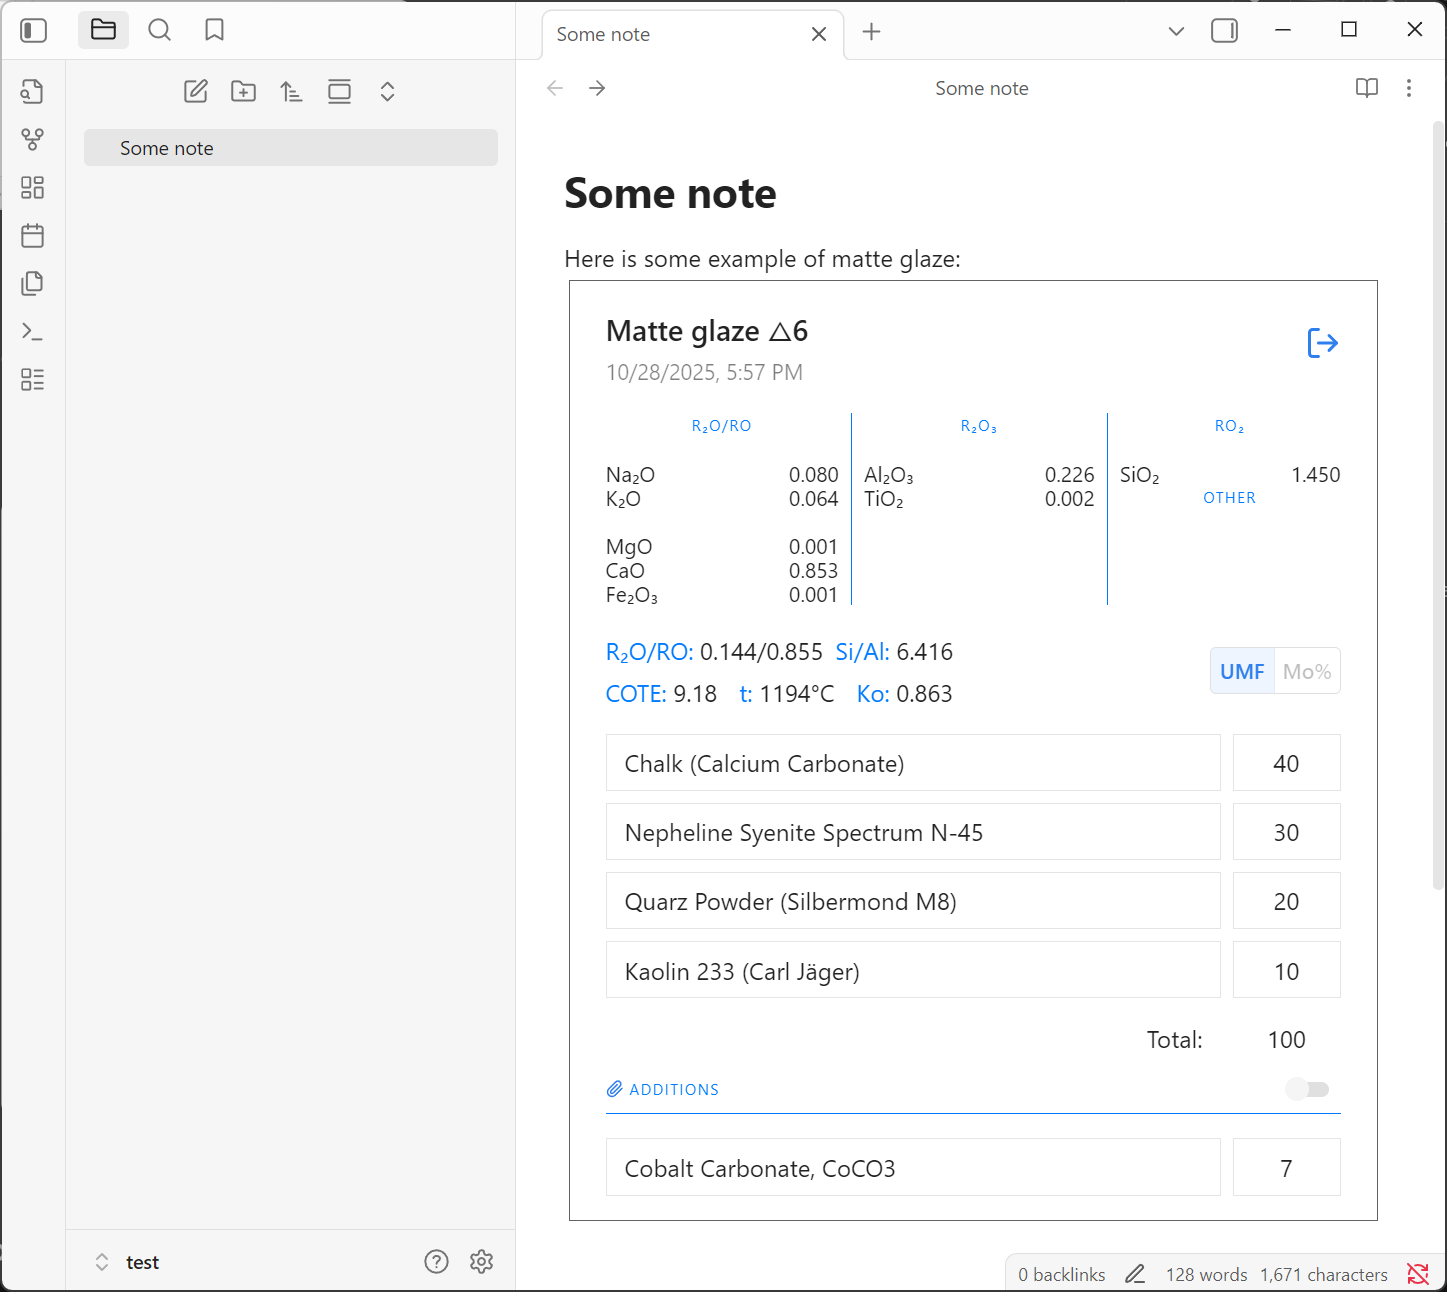
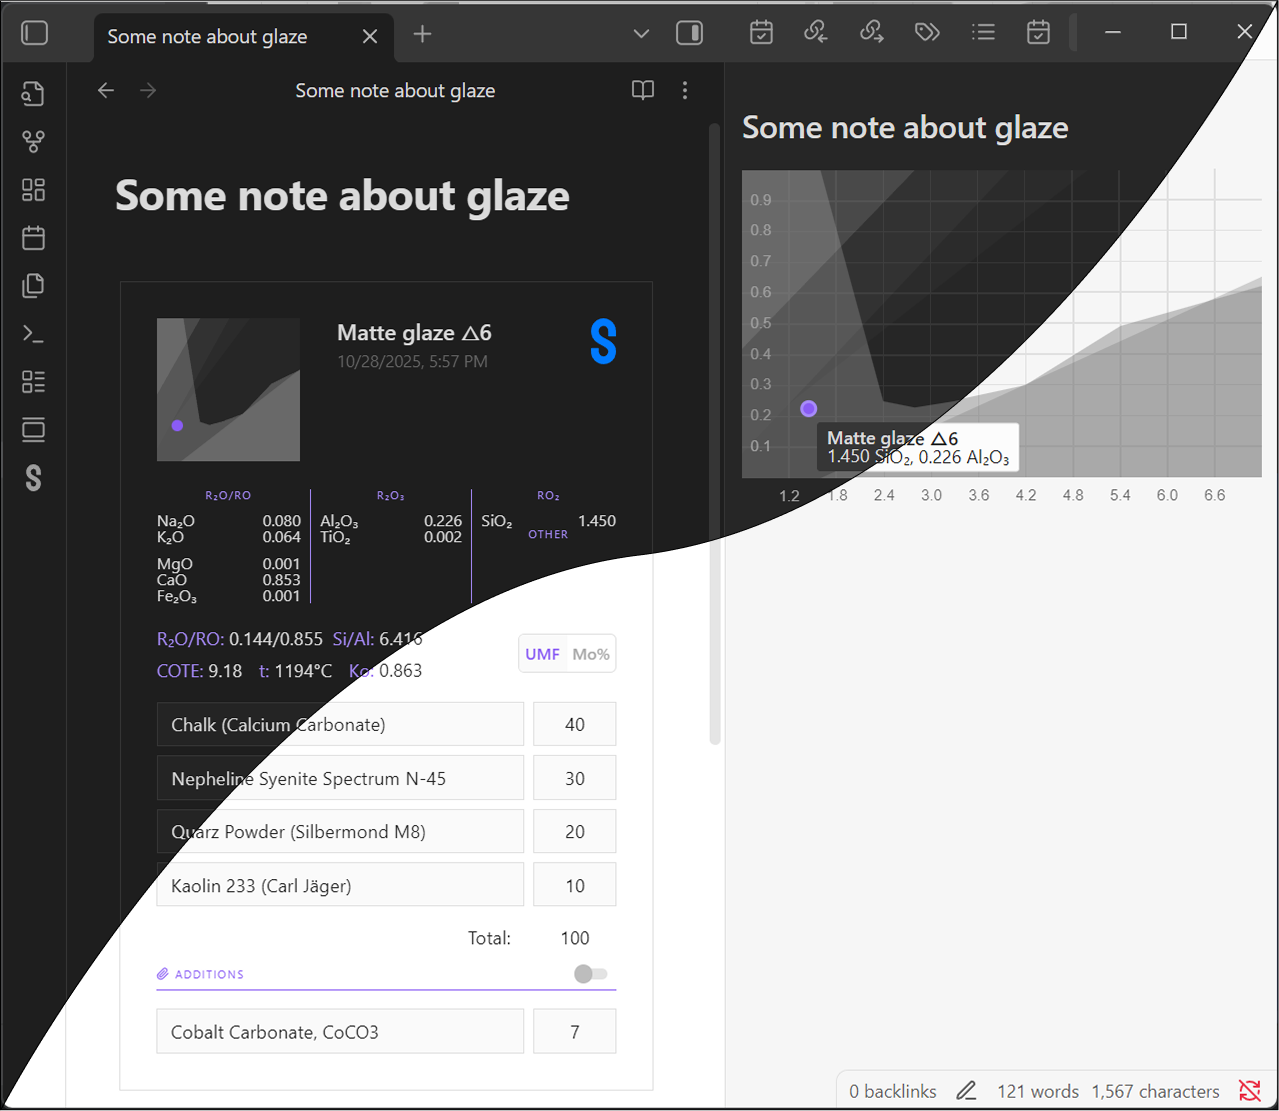
Small code adjustments and readme update

diff --git a/src/calculator-block/stull-chart/stull-chart.tsx b/src/calculator-block/stull-chart/stull-chart.tsx
@@ -24,7 +24,7 @@ const minX = 0.75;
 const maxY = (minimized?: boolean) => (minimized ? 0.86 : 0.98);
 const minY = 0.02;
 
-const calculatePointCoordinate = (p: StullChartPointDto, minimized = true): StullChartPointDto => ({
+const calculatePointCoordinate = (p: StullChartPointDto, minimized: boolean): StullChartPointDto => ({
   siO2Value: Math.min(Math.max(p.siO2Value, minX), maxX(minimized)),
   al2O3Value: Math.min(Math.max(p.al2O3Value, minY), maxY(minimized)),
 });
@@ -33,7 +33,7 @@ const calculatePointCoordinate = (p: StullChartPointDto, minimized = true): Stul
  * Defines the rotation of triangle symbol in case when point is outside the chart.
  * When null is returned, normal circle symbol is rendered.
  */
-const defineSymbol = (point: StullChartPointDto, minimized = true) => {
+const defineSymbol = (point: StullChartPointDto, minimized: boolean) => {
   if (point && point.al2O3Value > getMaxAl2O3Value(minimized)) {
     return "rotate(0)";
   }
@@ -68,7 +68,7 @@ const minimizedSize = { defaultWidth: 150, defaultHeight: 150, margin: { top: 0,
 
 export const StullChart = (
   {
-    points, minimized, width: widthProp, height: heightProp,
+    points, minimized = false, width: widthProp, height: heightProp,
   }: StullChartProps) => {
   const {
     tooltipData,
@@ -221,7 +221,10 @@ export const StullChart = (
         applyPositionStyle>
         <div style={{ display: "flex", flexDirection: "column" }}>
           {!minimized && (<div style={{ fontWeight: 600 }}>{(tooltipData as StullChartCalculatorPoint)?.name}</div>)}
-          <div>{`${(tooltipData as StullChartCalculatorPoint)?.siO2Value?.toFixed(3)} SiO₂, ${(tooltipData as StullChartPointDto)?.al2O3Value?.toFixed(3)} Al₂O₃`}</div>
+          <div>
+            {`${(tooltipData as StullChartCalculatorPoint)?.siO2Value?.toFixed(3)} SiO₂,`
+              +` ${(tooltipData as StullChartPointDto)?.al2O3Value?.toFixed(3)} Al₂O₃`}
+          </div>
         </div>
       </TooltipInPortal>
     </div>

diff --git a/src/localization/localization.ts b/src/localization/localization.ts
@@ -11,8 +11,8 @@ import { setLocale } from "./date-helpers";
 import * as russianTranslations from "./dictionaries/translation.ru.json";
 import * as englishTranslations from "./dictionaries/translation.en.json";
 
-export function initializeLocalization(selectedLanguage: string) {
-  return i18n
+export async function initializeLocalization(selectedLanguage: string) {
+  await i18n
     .use(initReactI18next)
     .init({
       fallbackLng,
@@ -20,7 +20,6 @@ export function initializeLocalization(selectedLanguage: string) {
       load: "languageOnly",
       preload: [fallbackLng, "en"],
       lowerCaseLng: true,
-      initImmediate: true,
       debug: false,
       supportedLngs: languages,
       interpolation: {
@@ -34,10 +33,8 @@ export function initializeLocalization(selectedLanguage: string) {
           [defaultNS]: englishTranslations,
         },
       },
-    })
-    .then(() => {
-      return selectedLanguage === Language.ru ? changeLanguage(Language.ru) : changeLanguage(Language.en);
     });
+  return await (selectedLanguage === Language.ru.toString() ? changeLanguage(Language.ru) : changeLanguage(Language.en));
 }
 
 export async function changeLanguage(language: Language) {
@@ -46,7 +43,7 @@ export async function changeLanguage(language: Language) {
   setLocale(getDefaultLocaleForLanguage(language));
 
   // change language as a last step because it will cause rerendering
-  if (i18n.language !== language) {
+  if (i18n.language !== language.toString()) {
     await i18n.changeLanguage(language);
   }
 }

diff --git a/src/settings-tab/index.tsx b/src/settings-tab/index.tsx
@@ -31,9 +31,9 @@ export default class SegerlabPluginSettingsTab extends PluginSettingTab {
 
     /** Recipe search template setting */
     const recipeSearchTemplateSettings = createRoot(new Setting(containerEl).settingEl);
-    const handleValueChange = async (event: React.ChangeEvent<HTMLInputElement>) => {
+    const handleValueChange = (event: React.ChangeEvent<HTMLInputElement>) => {
       this.plugin.settings.recipeSearchTemplate = event.target.value.trim();
-      await this.plugin.saveSettings();
+      this.plugin.saveSettings();
     };
     recipeSearchTemplateSettings.render(
       <RecipeSearchTemplateSetting

diff --git a/src/calculator-block/stull-chart/stull-chart.module.css b/src/calculator-block/stull-chart/stull-chart.module.css
@@ -21,7 +21,7 @@
 	transition: opacity 0.3s ease-in-out;
 	visibility: visible;
 	display: block;
-	border: thin solid var(--text-normal);
+	border: thin solid var(--background-modifier-border);
 }
 
 .stullPointTooltipHidden {

diff --git a/README.ru.md b/README.ru.md
@@ -9,11 +9,13 @@
 - **Отображение калькуляторов**: Трансформирует markdown блоки, помеченные как `segerlab-calculation`, в калькуляторы
 - **Больше коэффициентов**: Такая же опция «Отображать больше коэффициентов в калькуляторе», чтобы показывать больше расчтёных коэффициентов в калькуляторе.
 - **Поддержка разных языков**: Интерфейс калькулятора доступен как на русском, так и на английском языках. Зависит от языковых настроек Obsidian.
+- **График Сталла**: Панель с графиком Сталла с точками-калькуляторами, найденными в открытой заметке.
+- **Поиск по заметкам**: Настройте свой шаблон поискового запроса для поиска рецептов или калькуляторов по заметкам. Поиск открывается при нажатии на кнопку Obsidian в рецепте в Segerlab.
 
 ## Установка
 
 ### Включите настройку «Я использую Obsidian» в Segerlab
-Чтобы видеть кнопку Obsidian в калькуляторах, включите соответствующую настройку на странице «Мой профиль» (нажмите на иконку шестерёнки в левом нижнем углу).
+Чтобы видеть кнопки Obsidian в калькуляторах и рецептах, включите соответствующую настройку на странице «[Мой профиль](https://segerlab.ru/profile)» (нажмите на иконку шестерёнки в левом нижнем углу).
 
 ### Установка плагина из списка «Плагины сообщества» _(пока недоступно)_
 1. Откройте настройки Obsidian
@@ -23,9 +25,13 @@
 
 ### Ручная установка
 1. Скачайте файлы `main.js`, `styles.js` и `manifest.json` из последнего релиза плагина на [Github](https://github.com/ksemkav/obsidian-segerlab-plugin/releases)
-2. Создайте папку `.obsidian/plugins/segerlab/` в вашем хранилище Obsidian, если её ещё нет и скопируйте туда скачанные файлы
-3. Откройте настройки Obsidian, перейдите в раздел «Сторонние плагины» → «Управление плагинами» и включите плагин «Segerlab»
+2. Создайте папку `.obsidian/plugins/segerlab/` в папке с вашим хранилищем заметок Obsidian, если её ещё нет и скопируйте туда скачанные файлы
+3. Откройте настройки, перейдите в раздел «Сторонние плагины» → «Управление плагинами» и включите плагин «Segerlab»
 4. Если хотите видеть все расчётные коэффициенты в калькуляторе, перейдите в настройки плагина и включите опцию «Показывать больше коэффициентов в калькуляторе»
+
+### Настройки плагина
+- **Отображать больше коэффициентов в калькуляторе**: Включите эту опцию, чтобы показывать дополнительные коэффициенты в калькуляторах.
+- **Шаблон поискового запроса**: Настройте шаблон вашего поискового запроса для поиска рецептов или калькуляторов в ваших заметках. Есть несколько примеров, которые можно скопировать и использовать.
 
 ## Использование
 
@@ -33,7 +39,7 @@
 2. Нажмите кнопку с логотипом Obsidian. Это скопирует текущее состояние калькулятора в буфер обмена.
 
 	  <img alt="obsidian_button.png" src="obsidian_button.png" width="300"/>
-3. Вставьте содержимое буфера обмена в вашу заметку. После того, как вы переместите курсор за пределы блока кода, он будет отображён как калькулятор.
+3. Вставьте содержимое буфера обмена в вашу заметку. После того как вы переместите курсор за пределы блока кода, он будет отображён как калькулятор.
 
 ### Пример:
 

diff --git a/README.md b/README.md
@@ -11,6 +11,8 @@ This plugin brings calculators views from Segerlab app into your Obsidian notes.
 - **Calculator Rendering**: Transforms markdown code blocks with language `segerlab-calculation` into interactive calculator views
 - **Extended Coefficients**: Optional setting to display additional coefficients in the calculator interface
 - **Multi-language Support**: Interface available in English and Russian, automatically adapts to your Obsidian language setting
+- **Stull Chart**: Panel displaying Stull chart with all calculator points found in an opened note.
+- **Customizable Notes Search**: Configure a search query to quickly find notes containing calculators using the search button in Segerlab.
 
 ## Installation
 
@@ -28,6 +30,11 @@ To see the Obsidian button in calculators, enable the corresponding setting in t
 2. Extract the files to your vault's `.obsidian/plugins/segerlab/` directory
 3. Enable the plugin in Obsidian settings
 
+### Settings of the plugin
+
+- **Show more coefficients in calculator**: Enable this option to display additional calculated coefficients in the calculator view.
+- **Search template setting**: Customize your search query template to find recipes or calculators in your notes. There are some examples that can be copied and used.
+
 ## Usage
 
 1. Open some recipe in Segerlab and find a calculator you want to see in your Obsidian note.
@@ -44,7 +51,7 @@ To see the Obsidian button in calculators, enable the corresponding setting in t
 #### Example of the code block content copied from Segerlab:
 
 ````markdown
-```segerlab-calculator
+~~~segerlab-calculator
 {
   "recipeId": 8345,
   "calculationId": 36955,
@@ -121,5 +128,5 @@ To see the Obsidian button in calculators, enable the corresponding setting in t
     "acidityRatio": 0.863
   }
 }
-```
+~~~
 ````
